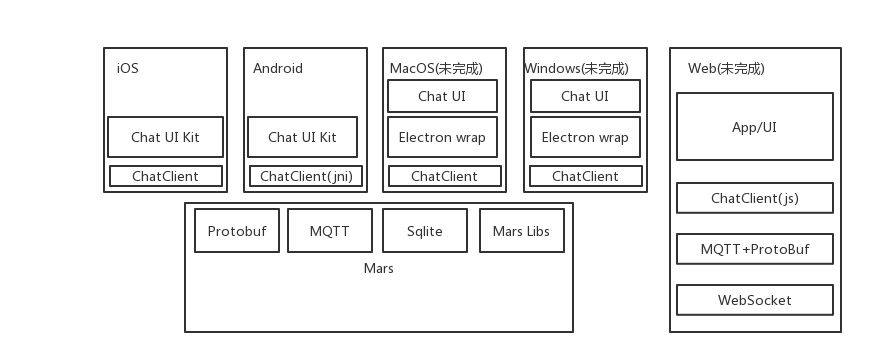
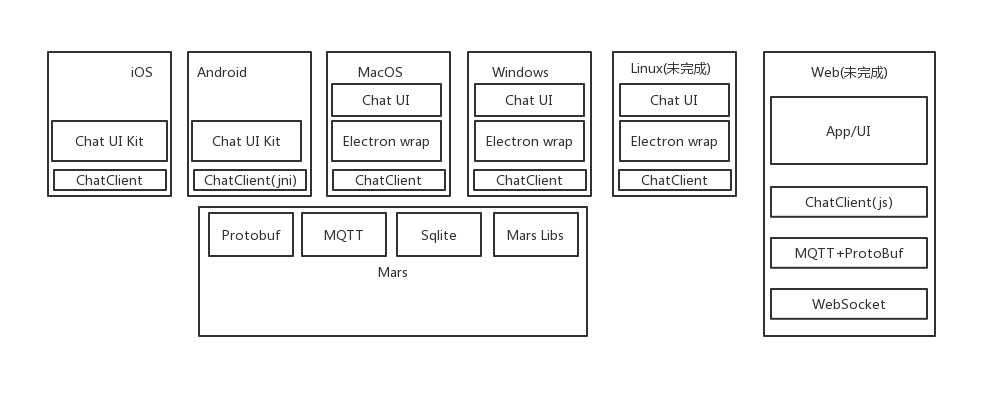
update

diff --git a/md/architecture/README.md b/md/architecture/README.md
@@ -6,7 +6,7 @@
 ## SDK
 SDK分为2部分，一部分是功能SDK，负责所有能力的实现，后文中简称ChatClient，只需要调用connect，传入用户Id和token，ChatClient会自动做好连接/重连、消息同步、群组关系同步、用户信息同步、好友关系同步等。移动客户端和PC客户端使用微信Mars和自定义协议实现，使用C++实现具有跨平台功能。Web客户端使用自定义协议和websocket实现。另外一部分是UI的SDK，实现了常用的UI界面，方便客户集成使用，后文中使用简称ChatUI。
  ![客户端架构图](client_architecture.png)
-> 目前仅实现了移动端平台，mac/windows/web平台暂未实现。其中mac/windows平台的实现较为容易，会很快提供SDK。
+> 目前仅实现了PC端仅实现了mac和windows，linux平台暂未实现。web平台也暂未实现，可能需要更长的时间。
 
 ## 应用服务器
 应用服务器需要处理用户注册/用户登陆等业务。应用服务器在用户登陆时去野火IM服务器换取token，然后返回给客户端。我们提供有[Demo](https://github.com/wildfirechat/app_server)供参考。
